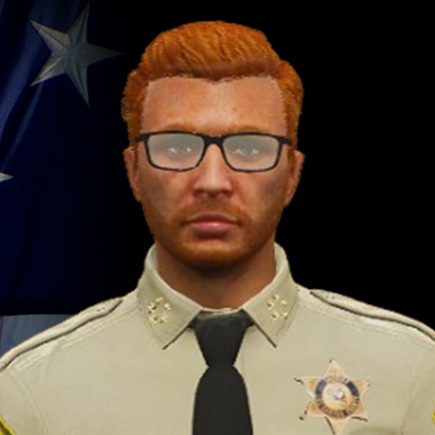
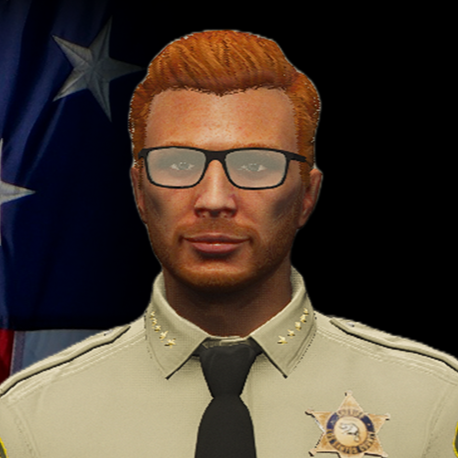
Upravy - 2
Dalsi upravy GG

diff --git a/src/pages/Command.tsx b/src/pages/Command.tsx
@@ -11,15 +11,16 @@ const Command = () => {
       title: "Sheriff",
       experience: "30 let",
       image: "/images/Jayden Sinns.png",
-      description: "Vede oddělení s integritou a vizí, šerif Sinns zasvětil svou kariéru komunitně orientované policii a veřejné bezpečnosti.",
-      achievements: ["Absolvent státní policejní akademie s vyznamenáním", "Cena za vedení komunity 2024", "Medaile za excelenci v policejní službě"]
+      description: "Jako administrativní lídr s velkými vizemi a smyslem pro dlouhodobé plánování se šerif Sinns zaměřuje na budování přátelského a otevřeného prostředí podporujícího spolupráci a vzájemnou důvěru. Začínal jako zkušený zástupce šerifa a FTO (školící důstojník v terénu), pod jehož vedením prošla řada nováčků – z nichž někteří dnes patří mezi nejlepší. Díky svým schopnostem se stal uznávaným seržantem, který si vytrvale šel za svým snem postoupit do vyššího vedení. To se mu podařilo – nejprve na pozici poručíka, následně Commander pro administrativní činnost, a nakonec byl zvolen šerifem. Jeho cílem je neustále zlepšovat služby a vztahy s komunitou, přičemž se zaměřuje na transparentnost, otevřenou komunikaci a inovace v oblasti bezpečnosti.",
+      achievements: ["Absolvent státní policejní akademie s vyznamenáním", "Policejní medaile za záchranu života", "Pochvala za vynikající vedení a přínos k rozvoji oddělení"]
     },
     {
       name: "Peter Wellington",
       title: "Undersheriff",
       experience: "32 let",
-      description: "Dozoruje každodenní provoz a strategické plánování. Odbornice na krizové řízení a meziorganizační koordinaci.",
-      achievements: ["Certifikace krizového řízení", "Cena za excelenci ve vedení", "Medaile za inovace ve veřejné bezpečnosti"]
+      image: "/images/Wellington.png",
+      description: "Skvělý přítel a spolehlivý kolega, který se vypracoval z oblasti multimédií a fotografování do role odborníka na administrativu a komunikaci. Díky svému citu pro detail a schopnosti navazovat kontakty přirozeně přešel k práci tiskového mluvčího, kde spojuje profesionální prezentaci s lidským a přátelským přístupem.",
+      achievements: ["Komunitní policejní medaile", "Pochvala za vynikající komunikaci a vztahy s veřejností"]
     },
     {
       name: "Anthony Woods",
@@ -27,14 +28,15 @@ const Command = () => {
       experience: "25 let",
       image: "/images/Woods.png",
       description: "Anthony Woods nastoupil do prvního turnusu akademie Los Santos Police Department, kde se postupně vypracoval z řadového policisty na hodnost Sergeanta, kde vedl tým policistů a zaměřoval se na posilování vztahů mezi složkami i komunitou. Postupně se stal Sergeantem druhé třídy a byl povýšen i na poručíka. Na této hodnosti strávil největší část kariéry u LSPD. Soustředil se na interní záležitosti, rozvoj oddělení a zlepšování služeb veřejnosti. V červenci roku 2025 po přestupu k Los Santos County Sheriff’s Department byl jmenován kapitánem. Za své zásluhy, profesionální vedení a přínos společnosti obdržel Medaili za vynikající službu a byl povýšen do hodnosti Division Chiefa, kde dnes dohlíží na chod divizí, podporuje komunitní projekty a zajišťuje, aby department plnil nejvyšší standardy bezpečnosti a služeb veřejnosti.",
-      achievements: ["Absolvent úplně prvního turnusu policejní akademie", "Čestná uznání za přinos komunitě a vední týmu", "Medaile za vynikající službu a povýšení do hodnosti Division Chiefa"]
+      achievements: ["Absolvent úplně prvního turnusu policejní akademie", "Čestná uznání za přínos komunitě a vedení týmu", "Medaile za vynikající službu a povýšení do hodnosti Division Chiefa"]
     },
     {
       name: "Daniel Miller",
       title: "Captain",
       experience: "22 let",
-      description: "Vede kriminální oddělení a specializované vyšetřovací jednotky s odborností na závažné trestné činy a forenzní analýzu.",
-      achievements: ["Detektiv roku 2019", "Excelence v kriminálním vyšetřování", "Certifikace pokročilé forenzní analýzy"]
+      image: "/images/Miller.png",
+      description: "Vede své oddělení s odhodláním a profesionalitou, přičemž klade důraz na bezpečnost komunity a rozvoj týmové spolupráce. Jeho přístup kombinuje strategické plánování s lidským vztahem k občanům i kolegům. Zároveň se pečlivě a systematicky stará o FTO program, v rámci kterého podporuje a školí nové absolventy po akademii, aby z nich vyrostli schopní a sebevědomí profesionálové.",
+      achievements: ["Ocenění za přínos v rozvoji FTO programu", "Certifikace v oblasti moderních metod výcviku a veden"]
     },
     {
       name: "Raffael Jeter",
@@ -47,23 +49,26 @@ const Command = () => {
     {
       name: "Sean Fell",
       title: "Lieutenant",
-      experience: "18 let",
-      description: "Vyvíjí a realizuje programy pro komunitu a iniciativy pro zapojení veřejnosti.",
-      achievements: ["Cena za partnerství s komunitou", "Excelence ve veřejných vztazích", "Vedení v oblasti diverzity a inkluze"]
+      experience: "15 let",
+      image: "/images/Fell.png",
+      description: "Zodpovědný, klidný pod tlakem, vede s respektem, věří v tým, disciplínu, spravedlnost a rychlá rozhodnutí.",
+      achievements: ["Významný Instruktor HSIU Divize"]
     },
     {
       name: "Jacob Cage",
       title: "Lieutenant",
-      experience: "18 let",
-      description: "Vyvíjí a realizuje programy pro komunitu a iniciativy pro zapojení veřejnosti.",
-      achievements: ["Cena za partnerství s komunitou", "Excelence ve veřejných vztazích", "Vedení v oblasti diverzity a inkluze"]
+      experience: "32 let",
+      image: "/images/Cage.png",
+      description: "Spolupráce s detektivním oddělením vedoucí k rozbití celé nelegální organizace. Dopadení pachatele plánujícího únos policejního kolegy. Dlouhodobá služba s prokazatelnými výsledky v ochraně veřejné bezpečnosti",
+      achievements: ["Pochvaly od občanů za profesionální a lidský přístup k veřejnosti", "Pochvaly od kolegů z řad policie za týmovou spolupráci a odhodlání při zásazích","Policejní medaile za vynikající službu"]
     },
     {
       name: "Jake Sinns",
       title: "Lieutenant",
-      experience: "18 let",
-      description: "Vyvíjí a realizuje programy pro komunitu a iniciativy pro zapojení veřejnosti.",
-      achievements: ["Cena za partnerství s komunitou", "Excelence ve veřejných vztazích", "Vedení v oblasti diverzity a inkluze"]
+      experience: "10 let",
+      image: "/images/Jake Sinns.png",
+      description: "Celý svůj život zasvětil práci u šerifů a snaží sa byť nápomocný ostatním kolegům i občanům.",
+      achievements: ["Medaile za vynikající službu"]
     }
   ];
 

diff --git a/src/pages/Divisions.tsx b/src/pages/Divisions.tsx
@@ -8,11 +8,46 @@ import {
   Dog, 
   AlertTriangle,
   Users,
+  Syringe,
   Clock,
   MapPin
 } from "lucide-react";
 import Navigation from "@/components/Navigation";
 import Footer from "@/components/Footer";
+
+// Lucide-style Beaver icon (based on your image)
+const BeaverIcon = (props: React.SVGProps<SVGSVGElement>) => (
+  <svg
+    width={32}
+    height={32}
+    viewBox="0 0 64 64"
+    fill="none"
+    stroke="currentColor"
+    strokeWidth={3}
+    strokeLinecap="round"
+    strokeLinejoin="round"
+    {...props}
+  >
+    {/* Tělo */}
+    <path d="M16 32 Q12 48 32 56 Q52 48 48 32 Q48 16 32 16 Q16 16 16 32 Z" />
+    {/* Hlava */}
+    <ellipse cx="44" cy="24" rx="10" ry="8" />
+    {/* Oko */}
+    <circle cx="50" cy="22" r="1.5" fill="currentColor" />
+    {/* Přední tlapky */}
+    <path d="M40 32 Q38 36 42 38" />
+    <path d="M44 34 Q46 38 48 36" />
+    {/* Zadní tlapky */}
+    <path d="M24 48 Q22 52 26 54" />
+    {/* Ocas */}
+    <path d="M12 48 Q8 60 24 56" />
+    {/* Nos */}
+    <circle cx="54" cy="26" r="1" fill="currentColor" />
+    {/* Linie na těle */}
+    <path d="M28 28 Q24 36 32 40" />
+    <path d="M36 36 Q40 44 32 48" />
+  </svg>
+);
 
 const Divisions = () => {
   const divisions = [
@@ -43,7 +78,7 @@ const Divisions = () => {
         "Vzdělávací programy pro bezpečnost silničního provozu"
       ],
       coverage: "Hlavní silnice a dálnice",
-      personnel: "45 policistů",
+      personnel: "25+ šerifů",
       vehicles: "15 motocyklů, 8 hlídkových vozů"
     },
     {
@@ -58,8 +93,8 @@ const Divisions = () => {
         "Vyšetřování nevyřešených případů"
       ],
       coverage: "Vyšetřování v celém okrese",
-      personnel: "35 vyšetřovatelů",
-      vehicles: "12 neoznačených vozidel"
+      personnel: "5+ vyšetřovatelů",
+      vehicles: "10+ neoznačených vozidel"
     },
     {
       icon: Shield,
@@ -73,8 +108,8 @@ const Divisions = () => {
         "Krizová intervence a vyjednávání"
       ],
       coverage: "Taktická podpora v celém okrese",
-      personnel: "20 taktických policistů",
-      vehicles: "3 obrněná vozidla, 2 velitelské vozy"
+      personnel: "15 taktických šerifů",
+      vehicles: "3 obrněná vozidla, 10+ zásahových vozidel"
     },
     {
       icon: Plane,
@@ -88,7 +123,7 @@ const Divisions = () => {
         "Koordinace tísňových zásahů"
       ],
       coverage: "Celý vzdušný prostor okresu",
-      personnel: "12 pilotů a členů posádky",
+      personnel: "10+ pilotů a členů posádky",
       vehicles: "4 vrtulníky"
     },
     {
@@ -103,8 +138,41 @@ const Divisions = () => {
         "Vzdělávání veřejnosti a ukázky"
       ],
       coverage: "Nasazení v celém okrese",
-      personnel: "8 týmů K9",
-      vehicles: "8 speciálních vozidel K9"
+      personnel: "5+ týmů K9",
+      vehicles: "10 speciálních vozidel K9"
+    },
+    {
+      icon: Syringe,
+      name: "Metro Unit",
+      description: "Specializovaná jednotka pro boj s drogovou kriminalitou a zbraněmi.",
+      responsibilities: [
+        "Detekce drog a omamných látek",
+        "Detekce zbraní a střeliva",
+        "Sledování a zadržení podezřelých",
+        "Sběr důkazů"
+      ],
+      coverage: "Nasazení v celém okrese",
+      personnel: "8+ šerifů",
+      vehicles: "15+ speciálních vozidel"
+    },
+    {
+      icon: BeaverIcon,
+      name: "Park Rangers",
+      description: "Specializovaná jednotka pro ochranu přírody a bezpečnost v přírodních parcích.",
+      responsibilities: [
+        "Ochrana přírody, životního prostředí a divoké zvěře",
+        "Prevence a vyšetřování trestných činů v parcích",
+        "Zajištění bezpečnosti návštěvníků",
+        "Kontrola dodržování pravidel a předpisů",
+      ],
+      coverage: "Přírodní parky a chráněné oblasti",
+      personnel: "10+ parkových rangerů",
+      vehicles: "20+ vozidel",
+      huntingInfo: "Pro více informací o hunting licenci, pravidlech lovu a ochraně přírody navštivte naši aplikaci.",
+      discord: {
+        url: "https://discord.gg/cEWPcT5raS",
+        tooltip: "Připojte se na naší aplikace, kde se dozvíte více o národních parcích a jejich ochraně."
+      },
     }
   ];
 
@@ -181,6 +249,36 @@ const Divisions = () => {
                       </div>
                     </div>
                   </div>
+
+                  {/* Hunting Info - only for Park Rangers */}
+                  {division.huntingInfo && (
+                    <div className="mt-4 p-3 bg-muted/40 rounded text-sm text-muted-foreground border-l-4 border-primary">
+                      {division.huntingInfo}
+                    </div>
+                  )}
+
+                  {/* Discord Link - only for Park Rangers */}
+                  {division.discord && (
+                    <div className="flex items-center space-x-2 mt-4">
+                      <a
+                        href={division.discord.url}
+                        target="_blank"
+                        rel="noopener noreferrer"
+                        className="inline-flex items-center px-3 py-2 bg-accent text-accent-foreground rounded-md hover:bg-accent/80 transition-colors"
+                        title={division.discord.tooltip}
+                      >
+                        <svg width={20} height={20} viewBox="0 0 24 24" fill="none">
+                          {/* Discord logo SVG */}
+                          <path
+                            d="M20.317 4.369a19.791 19.791 0 00-4.885-1.515.074.074 0 00-.079.037c-.211.375-.447.864-.614 1.249a18.508 18.508 0 00-5.487 0 12.683 12.683 0 00-.617-1.249.077.077 0 00-.079-.037A19.736 19.736 0 003.683 4.369a.07.07 0 00-.032.027C.533 8.159-.32 11.87.099 15.539a.082.082 0 00.031.056c2.052 1.507 4.042 2.422 5.993 3.034a.077.077 0 00.084-.027c.461-.63.873-1.295 1.226-1.994a.076.076 0 00-.041-.105c-.652-.247-1.272-.547-1.872-.892a.077.077 0 01-.008-.127c.126-.094.252-.192.372-.291a.074.074 0 01.077-.01c3.927 1.793 8.18 1.793 12.061 0a.075.075 0 01.078.009c.12.099.246.197.372.291a.077.077 0 01-.006.127 12.298 12.298 0 01-1.873.892.076.076 0 00-.04.106c.36.699.772 1.364 1.225 1.994a.076.076 0 00.084.027c1.957-.612 3.947-1.527 5.999-3.034a.077.077 0 00.031-.055c.5-4.1-.838-7.783-3.549-11.143a.061.061 0 00-.031-.028zM8.02 14.331c-.789 0-1.438-.724-1.438-1.617 0-.893.637-1.617 1.438-1.617.807 0 1.45.732 1.438 1.617 0 .893-.637 1.617-1.438 1.617zm7.974 0c-.789 0-1.438-.724-1.438-1.617 0-.893.637-1.617 1.438-1.617.807 0 1.45.732 1.438 1.617 0 .893-.631 1.617-1.438 1.617z"
+                            fill="currentColor"
+                          />
+                        </svg>
+                        <span className="ml-2">Aplikace</span>
+                      </a>
+                    </div>
+                  )}
+
                 </CardContent>
               </Card>
             ))}

diff --git a/src/pages/Media.tsx b/src/pages/Media.tsx
@@ -209,17 +209,17 @@ const Media = () => {
                 </CardHeader>
                 <CardContent className="space-y-4">
                   <div>
-                    <p className="font-semibold">Šerif Jayden Sinns</p>
+                    <p className="font-semibold">Sheriff - Jayden Sinns</p>
                     <p className="text-sm text-muted-foreground">Tiskový mluvčí</p>
                   </div>
                   <div className="space-y-2 text-sm">
-                    <p><strong>Telefon:</strong> (555) 123-4567 kl. 2100</p>
+                    {/*<p><strong>Telefon:</strong> (555) 123-4567 kl. 2100</p>*/}
                     <p><strong>Email:</strong> media@lssd.gov</p>
                     <p className="text-sm text-muted-foreground">DC: freezik</p>
                   </div>
                   <div>
                     <p className="text-sm text-muted-foreground">
-                      <strong>Hodiny:</strong> Pondělí – Pátek, 8:00 – 17:00
+                      <strong>Hodiny:</strong> Pondělí – Pátek, 16:00 – 20:00
                     </p>
                   </div>
                 </CardContent>

diff --git a/src/components/Footer.tsx b/src/components/Footer.tsx
@@ -58,8 +58,15 @@ const Footer = () => {
               <div className="flex items-start space-x-2">
                 <MapPin className="h-4 w-4 mt-0.5" />
                 <div>
-                  <p className="text-sm">1200 Davis Avenue</p>
-                  <p className="text-sm">Los Santos, SA 90210</p>
+                  <p className="text-sm">Alhambra Drive</p>
+                  <p className="text-sm">Sandy Shores, SA 3004</p>
+                </div>
+              </div>
+              <div className="flex items-start space-x-2">
+                <MapPin className="h-4 w-4 mt-0.5" />
+                <div>
+                  <p className="text-sm">Innocence Boulevard</p>
+                  <p className="text-sm">Los Santos, SA 9148</p>
                 </div>
               </div>
             </div>

diff --git a/src/pages/Index.tsx b/src/pages/Index.tsx
@@ -344,7 +344,7 @@ const Index = () => {
                   </p>
                   <p>
                     Náš vozový park zahrnuje hlídková auta, motocykly, vrtulníky a
-                    specializovaná vozidla pro jednotky SWAT, K9 a dopravní dohled.
+                    specializovaná vozidla pro jednotky SWAT, K9, dopravní dohled a mnoho dalšího.
                   </p>
                 </div>
 

diff --git a/src/pages/About.tsx b/src/pages/About.tsx
@@ -36,11 +36,6 @@ const About = () => {
       year: "2010",
       title: "Letecká podpora",
       description: "Vznik vrtulníkové jednotky pro podporu hlídek a tísňové reakce."
-    },
-    {
-      year: "2020",
-      title: "Iniciativa komunitní policie",
-      description: "Zahájení komplexních programů pro posílení vztahů s veřejností."
     }
   ];
 
